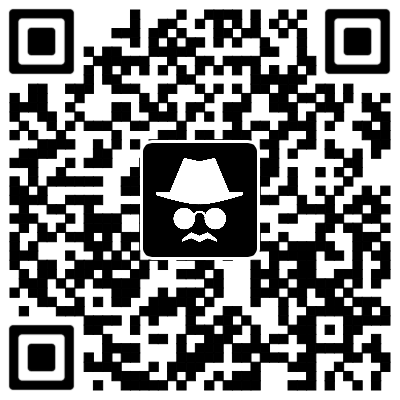
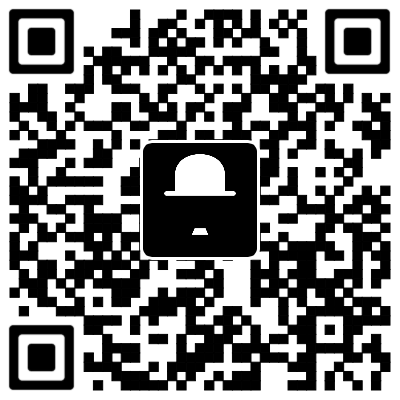
0.0.5
修改图标

Changed region(s): [[0.39, 0.36, 0.6, 0.6]]

diff --git a/index.html b/index.html
@@ -84,7 +84,7 @@
             <div class="footer-wrapper">
                 <div class="credit">
                     <div class="logo-company">
-                        <img src="resource/YanZhaoLogo.png" alt="大咖"/>
+                        <img src="resource/Themes120.png" alt="大咖"/>
                     </div>
                     <div class="description-company">
                         <p>厦门信始网络科技有限公司（Xiamen Themes Network Technology Co., Ltd.） 是一支勤奋的初创团队。如果你有任何建议，<a href="mailto:290907999@qq.com">请立刻发邮件给我们</a>。</p>
